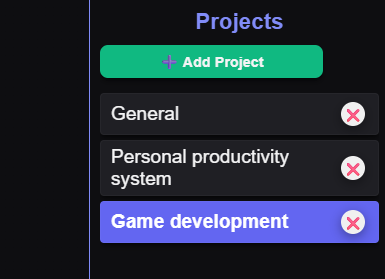
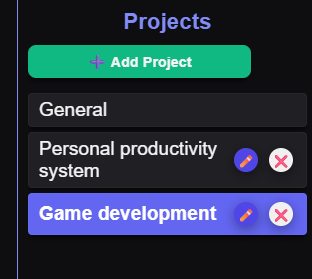
fix: gracefully handle auth errors and increase db transaction timeout
- Updated `registerUser` server action to return error objects instead of throwing raw exceptions, preventing generic Next.js 500 Server Component errors in production.
- Added `setStep(1)` in `AuthModal.jsx` to correctly return users to the primary modal and display the red error box when registration fails (e.g., email already exists).
- Increased Prisma `$transaction` timeout to 15000ms in `authActions.js`

diff --git a/backend/actions/authActions.js b/backend/actions/authActions.js
@@ -10,7 +10,7 @@ export async function registerUser(email, password, guestUserId, saveProjects) {
     // Check if user already exists
     const existingUser = await prisma.user.findUnique({ where: { email } });
     if (existingUser) {
-      throw new Error("User with this email already exists.");
+      return { error: "User with this email already exists." };
     }
 
     // Hash password
@@ -101,11 +101,13 @@ export async function registerUser(email, password, guestUserId, saveProjects) {
           where: { userId: guestUserId }
         });
       }
+    }, {
+      timeout: 15000 // Increase transaction timeout to 15 seconds to prevent Vercel crashes
     });
 
     return { success: true, userId: newUserId };
   } catch (error) {
     console.error("[AUTH] Registration error:", error);
-    throw new Error(error.message || "Failed to register user");
+    return { error: "Failed to register user. Please try again." };
   }
 }

diff --git a/frontend/components/authentication/AuthModal.jsx b/frontend/components/authentication/AuthModal.jsx
@@ -64,8 +64,15 @@ export default function AuthModal({ onClose }) {
     setError("");
     try {
       const guestUserId = getUserId();
-      await registerUser(email, password, guestUserId, saveProjects);
+      const registerRes = await registerUser(email, password, guestUserId, saveProjects);
       
+      if (registerRes?.error) {
+        setError(registerRes.error);
+        setStep(1);
+        setLoading(false);
+        return;
+      }
+
       // If the user migrated their projects, their guest account is consumed.
       // Remove the old IDs so they start fresh if they ever log out.
       if (saveProjects) {

diff --git a/README.md b/README.md
@@ -118,10 +118,10 @@ Because the front-end UI and back-end database queries are compiled into a unifi
    ```bash
    npm install
    ```
-3. Create a `.env` file in the root directory and input your PostgreSQL connection string and JWT secret:
+3. Create a `.env` file in the root directory and input your PostgreSQL connection string and Auth.js secret:
    ```env
    DATABASE_URL="postgresql://USER:PASSWORD@HOST:PORT/DATABASE?sslmode=require"
-   JWT_SECRET="your_secret_key_here"
+   AUTH_SECRET="your_secret_key_here"
    ```
 
 ### 2. Database Compilation & Launch
